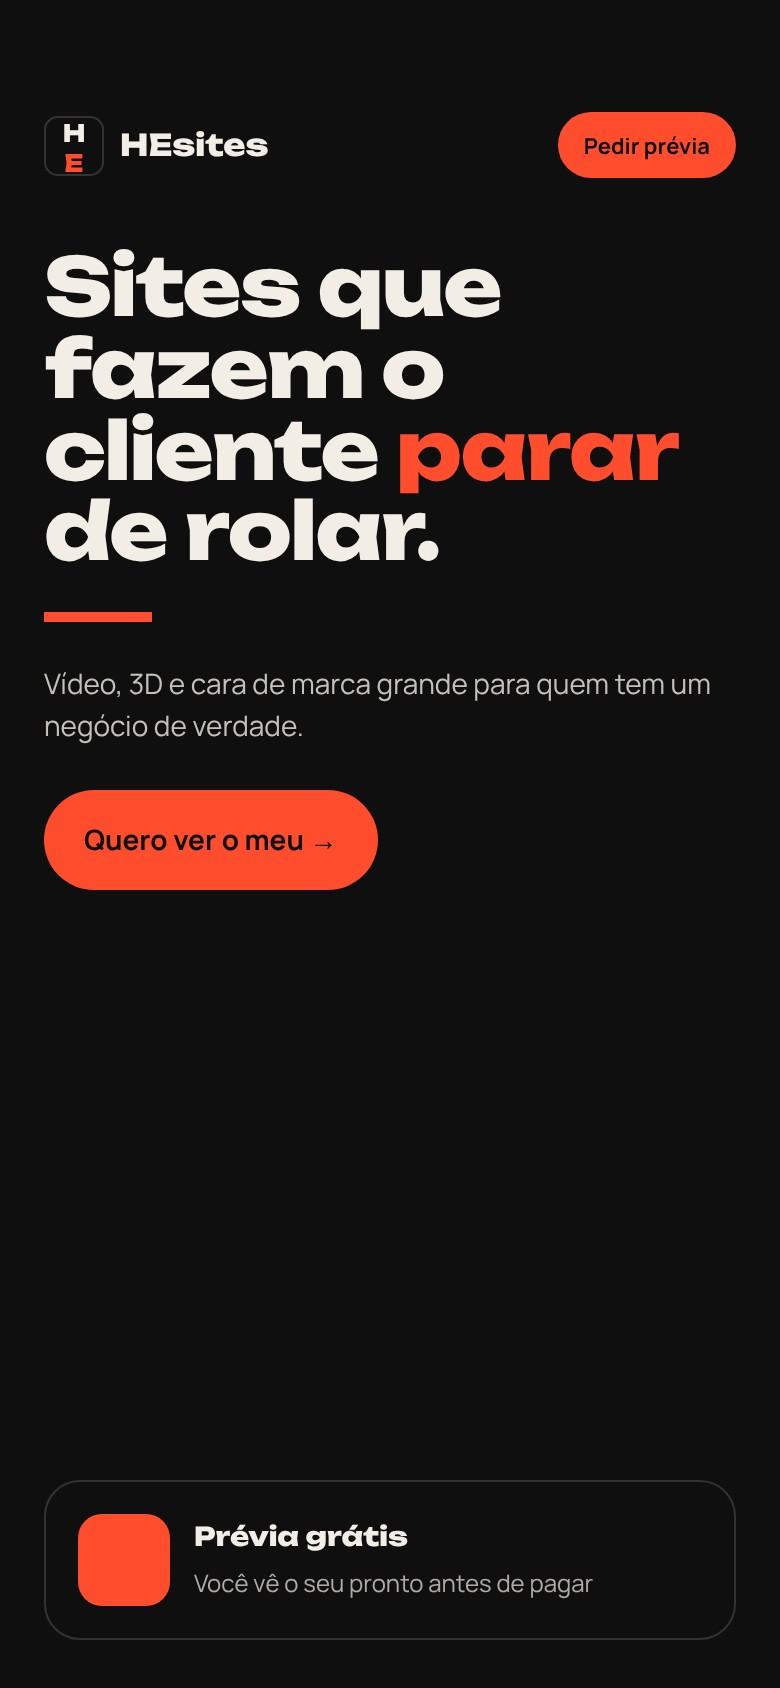
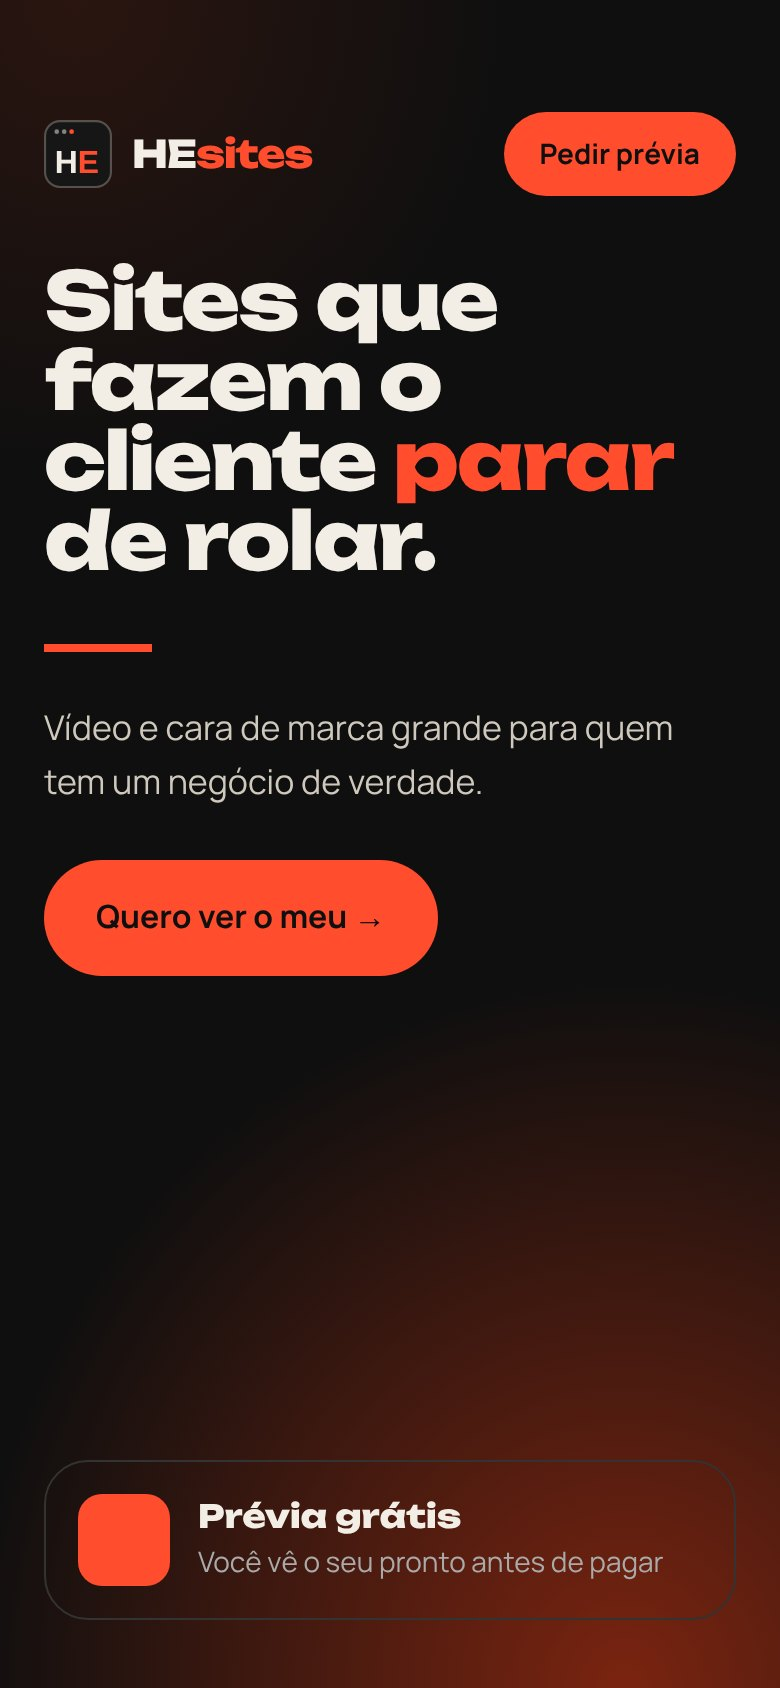
HEsites: ciclo 2 (metatags sociais/canonical, imagem da tela sem '3D')
Claude-Session: https://claude.ai/code/session_015KiwsDYULEwSU5dst2wgRB

diff --git a/hesites/index.html b/hesites/index.html
@@ -10,7 +10,13 @@
 <meta property="og:description" content="Sites sob medida para pequenos negócios, com prévia antes de pagar e atendimento pelo WhatsApp.">
 <meta property="og:type" content="website">
 <meta property="og:site_name" content="HEsites">
-<meta property="og:image" content="https://hesites-novo.vercel.app/og.jpg">
+<meta property="og:image" content="https://hesites.com/og.jpg">
+<meta property="og:image:width" content="1200">
+<meta property="og:image:height" content="630">
+<meta property="og:url" content="https://hesites.com/">
+<meta property="og:locale" content="pt_BR">
+<meta name="twitter:card" content="summary_large_image">
+<link rel="canonical" href="https://hesites.com/">
 <meta name="theme-color" content="#0F0F0F">
 <link rel="icon" href="favicon.svg" type="image/svg+xml">
 <link rel="preconnect" href="https://fonts.googleapis.com">
